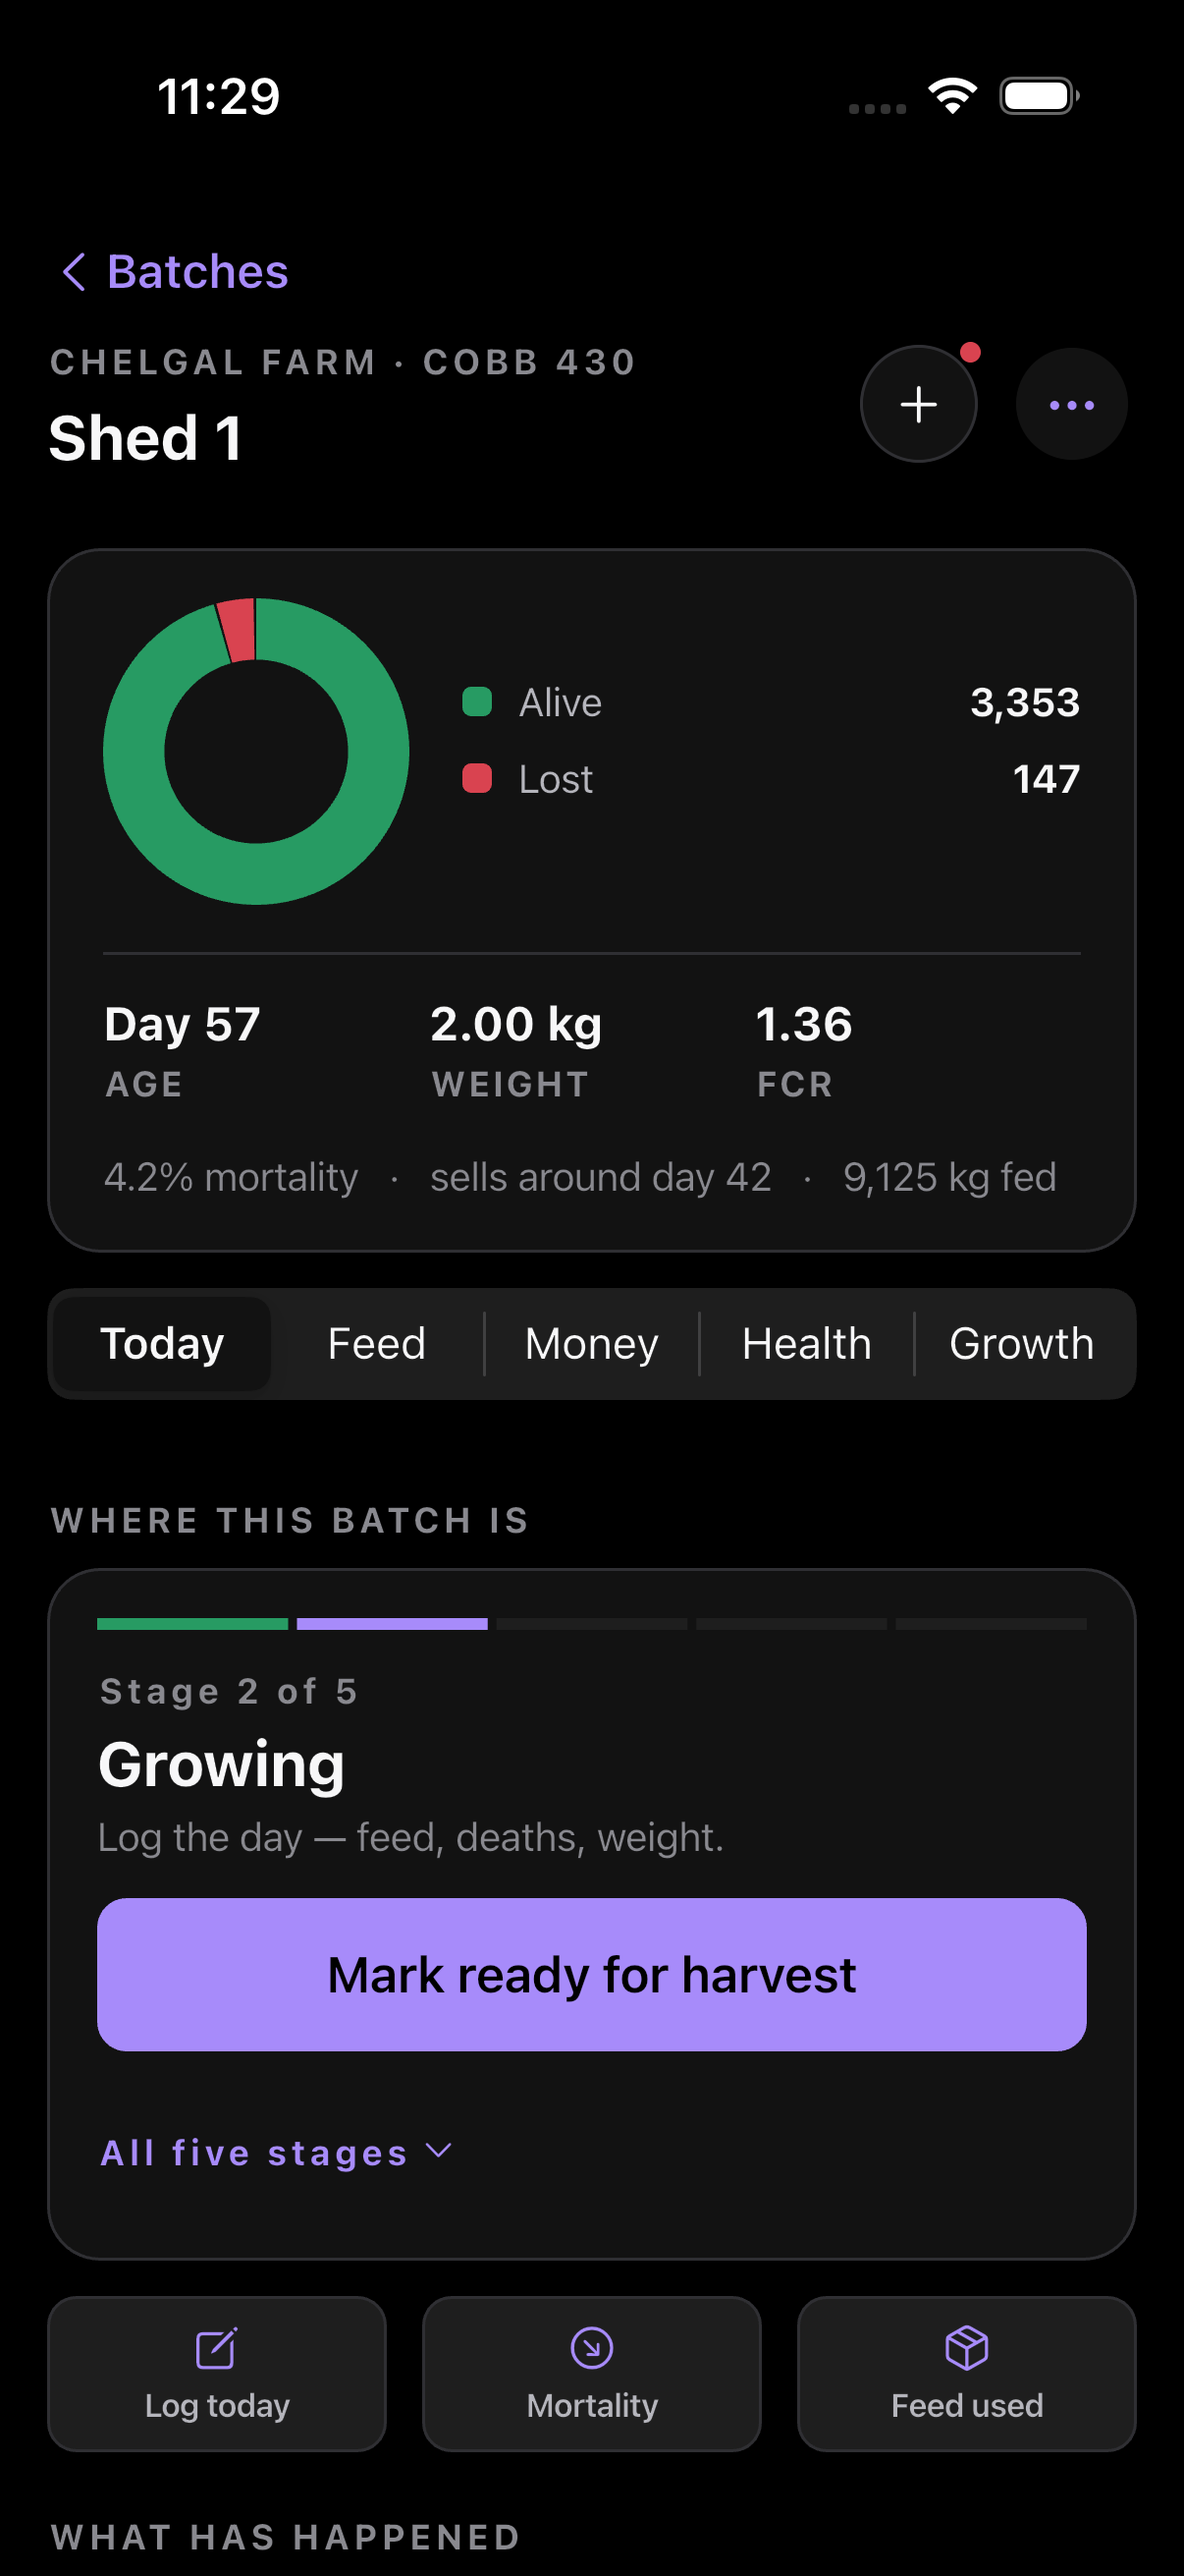
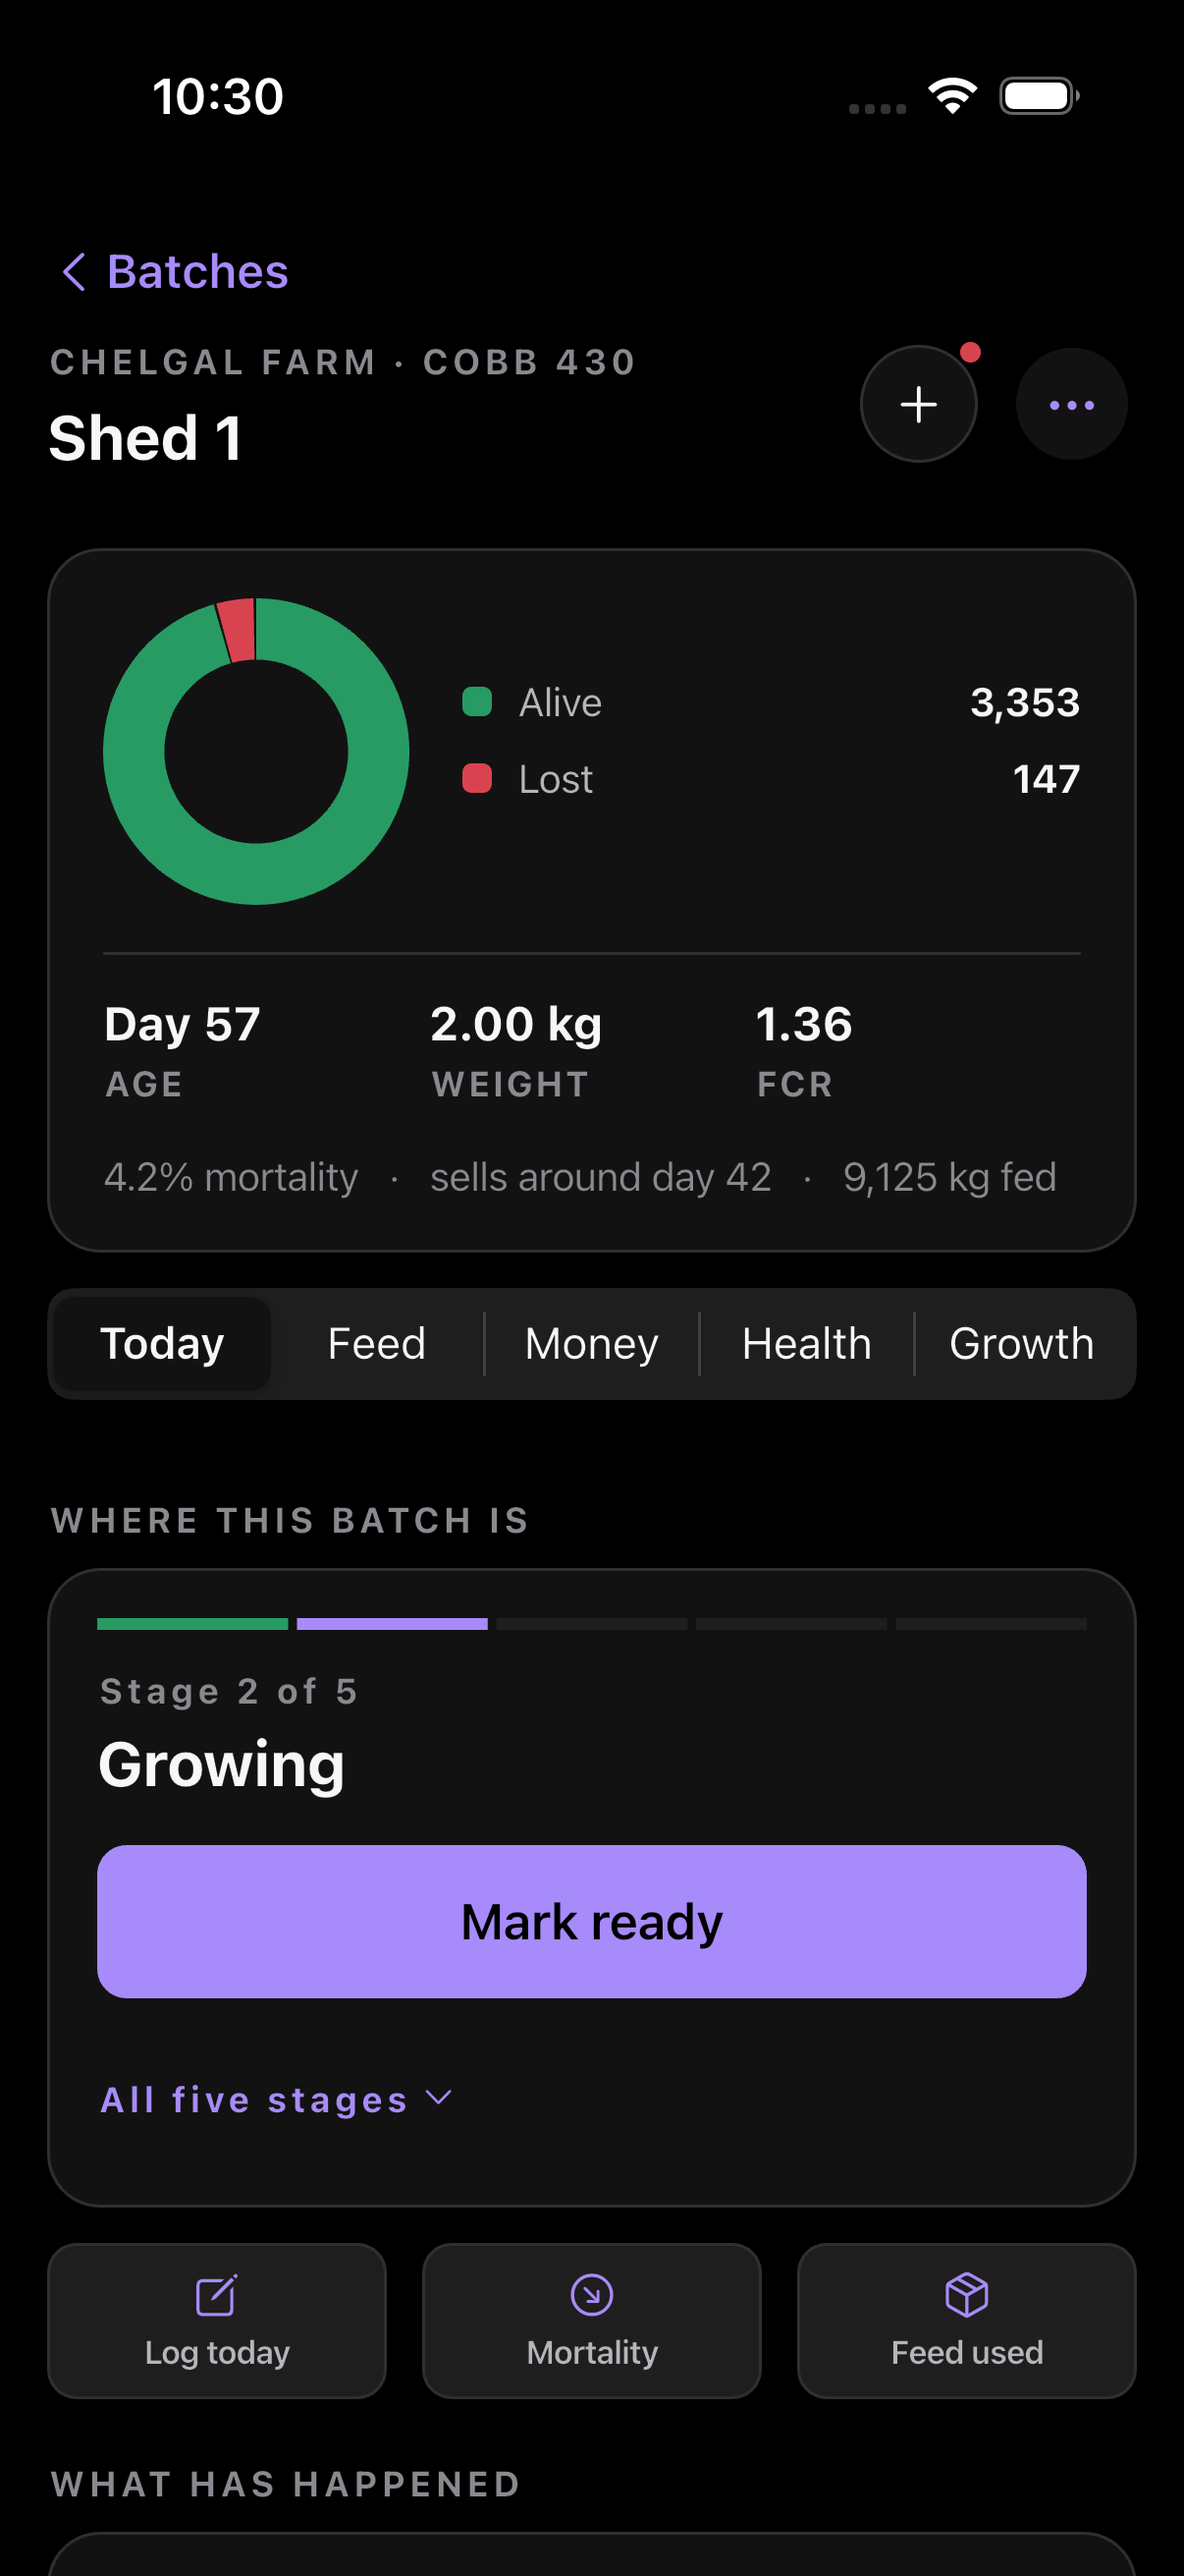
docs(18): 9.9 is two-thirds done, and says which third is not
The duplicated caption and the four-word button were rules being broken
and are fixed; the frame and its screenshot are updated. The hero's
height is a decision about what the product is, so it stays a question
for the reviewer rather than an answer from me.

Changed region(s): [[0.0307, 0.7105, 0.9204, 1.0], [0.675, 0.865, 0.9818, 0.9577], [0.1227, 0.0309, 0.2454, 0.0618]]

diff --git a/18-Farmer-App-UI-Spec.md b/18-Farmer-App-UI-Spec.md
@@ -422,14 +422,14 @@ Design decisions worth a reviewer's attention:
 | `motion_test` | reduced motion is honoured |
 | `nav_bar_test`, `cell_test`, `batch_ring_test`, `money_figures_test`, … | component contracts |
 
-997 tests pass at the commit this document describes.
+998 tests pass at the commit this document describes.
 
 ---
 
 ## 9. Known deviations
 
 Found by audit on 4 November 2026. Listed so a review can look past them.
-9.1 to 9.6, 9.8 and 9.10 were fixed the same day and 9.7 was mostly withdrawn; 9.9 and 9.11 are open.
+9.1 to 9.6, 9.8 and 9.10 were fixed the same day, 9.9 partly, and 9.7 was mostly withdrawn; 9.11 is open.
 
 **9.1 — FIXED 4 November. Nine figure labels were English on a Telugu phone.**
 `Fig`'s label is its *second* argument, and `no_hardcoded_strings_test` only
@@ -623,11 +623,28 @@ baseline already makes for itself. They are **frozen by key** in
 translated one left in the list, so the debt is visible, attributable, and
 cannot quietly grow. Clearing it needs a Telugu speaker, not a model.
 
-**9.9 — Density, not correctness.** The hero occupies roughly 240pt on all five
-segments, and the Today segment's stage card spends about 290pt on a progress
-bar, "Stage 2 of 5", a stage name, a caption that repeats the three buttons
-directly beneath it, a full-width button and a disclosure link. "Mark ready for
-harvest" is also a four-word commit label against a one-or-two-word rule.
+**9.9 — PARTLY FIXED 4 November; the rest is the reviewer's call.** Two of
+the three were rule-breaches rather than judgement, and are done.
+
+The stage card's caption on Growing read "Log the day — feed, deaths, weight."
+directly above the buttons Log today, Mortality and Feed used. It goes when
+those buttons are there, and only for Growing — Ready and Harvesting say
+something the buttons do not. The condition lives at the call site that knows
+whether the buttons render, and the card is told, so the two cannot disagree.
+
+The button read "Mark ready for harvest": four words against a one-or-two-word
+rule, and the odd one out beside Place chicks, Record a lift and Close the
+batch. It is "Mark ready"; the sheet it opens keeps the long form as its
+title, where there is room to say what is being marked.
+
+Together those lift **What has happened** onto the first screen, where before
+it sat below the fold.
+
+**Left alone deliberately: the hero's height.** It is ~240pt on all five
+segments, already down from ~280 since the ring went from 148 to 104. Whether
+the lower four segments should collapse it to a line is a decision about what
+the product is, not a rule being broken, and §10 question 1 asks it rather
+than assuming an answer.
 
 **9.10 — FIXED 4 November, in the API, and the fixture is the lesson.**
 The Farms tab printed `—` for WEIGHT and FCR on a shed whose own batch screen,
@@ -856,9 +873,11 @@ Preparing variant: the hero collapses to “Preparing shed” + chicks due.
 │ ╭──────────────────────────────────────────────────────╮ │  StageTimeline
 │ │ ███████ ███████ ░░░░░░ ░░░░░░ ░░░░░░                 │ │  5 stage bars
 │ │ Stage 2 of 5                                         │ │  NT.label
-│ │ Growing                                              │ │  NT.title
-│ │ Log the day — feed, deaths, weight.                  │ │  stage caption
-│ │ [         Mark ready for harvest          ]          │ │  PrimaryButton
+│ │ Growing                                              │ │  NT.title. The caption
+│ │                                                      │ │  the buttons repeat is
+│ │                                                      │ │  gone (§9.9)
+│ │ [               Mark ready                ]          │ │  PrimaryButton — two
+│ │                                                      │ │  words, like the rest
 │ │ All five stages ⌄                                    │ │  disclosure
 │ ╰──────────────────────────────────────────────────────╯ │
 │ [ Log today ] [ Mortality ] [ Feed used ]                │  QuickBar — only while
